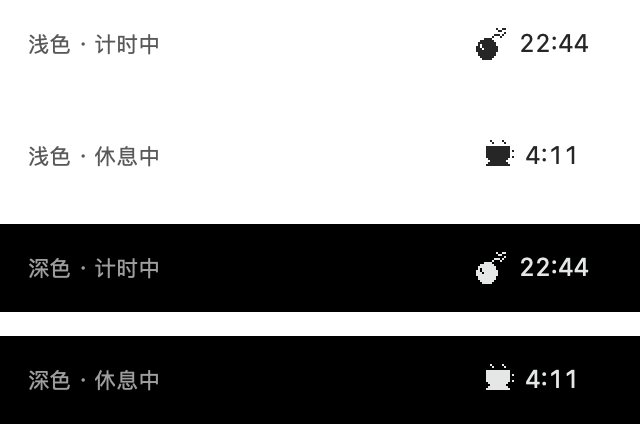
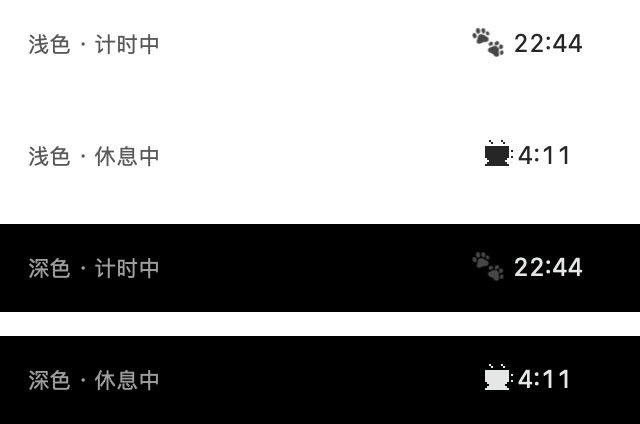
计时态图标改用 🐾 emoji

diff --git a/Sources/main.swift b/Sources/main.swift
@@ -41,10 +41,10 @@ final class AppDelegate: NSObject, NSApplicationDelegate, NSPopoverDelegate {
     private static var statusItemLength: CGFloat {
         let font = NSFont.monospacedDigitSystemFont(ofSize: 12.5, weight: .regular)
         let textWidth = ceil(NSAttributedString(string: "888:88", attributes: [.font: font]).size().width)
-        let timerIconWidth = ceil(StatusIcon.timer.size.width)
+        let pawWidth = ceil(NSAttributedString(string: "🐾 ", attributes: [.font: font]).size().width)
         let coffeeIconWidth = ceil(StatusIcon.coffee.size.width)
-        // 两种状态都是「图标 + 时间」，取更宽的一档
-        return max(timerIconWidth, coffeeIconWidth) + textWidth + 20
+        // 计时：🐾 + 时间；休息：咖啡图标 + 时间，取更宽的一档
+        return max(pawWidth, coffeeIconWidth) + textWidth + 20
     }
 
     // MARK: - 状态栏
@@ -54,12 +54,15 @@ final class AppDelegate: NSObject, NSApplicationDelegate, NSPopoverDelegate {
 
         let isRest = engine.phase == .rest
         let timeText = PomodoroEngine.format(engine.remaining)
-        if timeText != lastTitle {
-            lastTitle = timeText
+        let title = isRest ? timeText : "🐾 " + timeText
+
+        if title != lastTitle {
+            lastTitle = title
             let font = NSFont.monospacedDigitSystemFont(ofSize: 12.5, weight: .regular)
-            button.attributedTitle = NSAttributedString(string: " " + timeText, attributes: [.font: font])
+            button.attributedTitle = NSAttributedString(string: title, attributes: [.font: font])
         }
-        let icon = isRest ? StatusIcon.coffee : StatusIcon.timer
+
+        let icon: NSImage? = isRest ? StatusIcon.coffee : nil
         if button.image !== icon {
             button.image = icon
         }
@@ -266,7 +269,7 @@ final class AppDelegate: NSObject, NSApplicationDelegate, NSPopoverDelegate {
 
 
         if let prefix = env["POMODORO_DUMP_ICONS"] {
-            let icons: [(String, NSImage)] = [("timer", PixelIcon.bomb), ("coffee", PixelIcon.coffee)]
+            let icons: [(String, NSImage)] = [("coffee", PixelIcon.coffee)]
             for (name, icon) in icons {
                 let scale: CGFloat = 8
                 let size = NSSize(width: icon.size.width * scale, height: icon.size.height * scale)

diff --git a/Sources/PixelIcon.swift b/Sources/PixelIcon.swift
@@ -3,56 +3,10 @@ import AppKit
 /// 8-bit 像素图标：16×16 字符画渲染成模板位图（每格 2×2 设备像素，2x 屏上边缘是硬的）。
 enum PixelIcon {
 
-    /// 计时状态：像素笑脸（参考图简化版）
-    static let face = make(faceArt)
-
-    /// 计时状态：带引线的炸弹（18×18）
-    static let bomb = make(bombArt)
-
     /// 休息状态：冒热气的咖啡杯
     static let coffee = make(coffeeArt)
 
     // MARK: - 字符画
-
-    private static let faceArt: [String] = [
-        "................",
-        "................",
-        "...##......##...",
-        "...##......##...",
-        "...##......##...",
-        "...##......##...",
-        ".......##.......",
-        ".......##.......",
-        ".......##.......",
-        "......###.......",
-        "................",
-        "....#......#....",
-        ".....######.....",
-        "................",
-        "................",
-        "................",
-    ]
-
-    private static let bombArt: [String] = [
-        "..................",
-        "............#..##.",
-        ".............##...",
-        "................#.",
-        "...........###.#..",
-        "..........#...#...",
-        "......####........",
-        "....#######.......",
-        "...#########......",
-        "...#.#######......",
-        "..##.########.....",
-        "..###.#######.....",
-        "..###########.....",
-        "...#########......",
-        "...#########......",
-        "....#######.......",
-        ".....#####........",
-        "..................",
-    ]
 
     private static let coffeeArt: [String] = [
         "....#.....#.....",

diff --git a/Sources/StatusIcon.swift b/Sources/StatusIcon.swift
@@ -1,9 +1,7 @@
 import AppKit
 
-/// 菜单栏图标：模板图，跟随菜单栏深浅色与高亮自动反色。
+/// 菜单栏图标：休息态用模板像素图（跟随深浅色反色）；计时态用 emoji 🐾，不带图片。
 enum StatusIcon {
-    /// 计时状态：带引线的炸弹
-    static let timer: NSImage = PixelIcon.bomb
     /// 休息状态：冒热气的像素咖啡杯
     static let coffee: NSImage = PixelIcon.coffee
 }

diff --git a/README.md b/README.md
@@ -75,7 +75,7 @@ open /Applications/Pomodoro.app
 
 ## 功能
 
-- **菜单栏常驻倒计时**：计时状态是像素炸弹 + `24:59`，休息状态换成冒热气的像素咖啡杯 + `4:10`
+- **菜单栏常驻倒计时**：计时状态是 🐾 + `24:59`，休息状态换成冒热气的像素咖啡杯 + `4:10`
 - **毫秒显示**：面板里秒后面跟两位毫秒（`29:13.99`，50fps 刷新）；状态栏仍只显示到秒
 - **点击开面板**：环形进度、大号等宽时间、胶囊按钮；右键图标可直接退出
 - **点击表盘**：直接点圆形表盘即可开始 / 暂停 / 继续（悬停时光标变手型、状态文字提示当前动作）
@@ -116,8 +116,8 @@ rm -rf /Applications/Pomodoro.app
 
 - **状态栏**：`NSStatusItem` + 固定宽度（按两种像素图标里更宽的一档算），倒计时位数在
   `5:00` / `25:00` / `180:00` 之间变化都不会让 item 伸缩——否则锚定其上的面板会跟着左右跳。
-- **状态栏图标**：计时用 `PixelIcon` 的 8-bit 炸弹（18×18 字符画：圆弹体 + 高光 + 引线 + 火花），
-  休息用 8-bit 咖啡杯；两者都是模板图，深浅色与高亮自动反色，每格 2×2 设备像素保证像素边缘锐利。
+- **状态栏图标**：计时态用 emoji **🐾**（与时间同处一段富文本，天然跟随菜单栏配色与高亮反相），
+  休息态用 `PixelIcon` 的 8-bit 咖啡杯模板图（深浅色自动反色，每格 2×2 设备像素）。
 - **面板**：`NSPopover` + SwiftUI。`NSPopover` 自带的菜单栏定位会把面板顶出屏幕上沿
   （顶部被裁），因此另做了屏幕几何校正，把面板夹在图标正下方与可见区域内。
 - **统一配色**：表盘与主按钮在任何状态都是「浅色底 + 强调色文字 + 细描边」，
@@ -146,7 +146,7 @@ rm -rf /Applications/Pomodoro.app
 │   ├── PomodoroEngine.swift  # 计时状态机 + 持久化 + 每日归零
 │   ├── PopoverView.swift     # SwiftUI 面板
 │   ├── DialLiquid.swift      # 表盘里的水银液体
-│   ├── PixelIcon.swift       # 8-bit 像素图标（炸弹 / 咖啡杯）
+│   ├── PixelIcon.swift       # 8-bit 像素图标（咖啡杯）
 │   ├── StatusIcon.swift      # 菜单栏图标入口
 │   ├── SoundFX.swift         # 按钮点击音
 │   └── WatchBeep.swift       # 结束提示音（含合成兜底）
